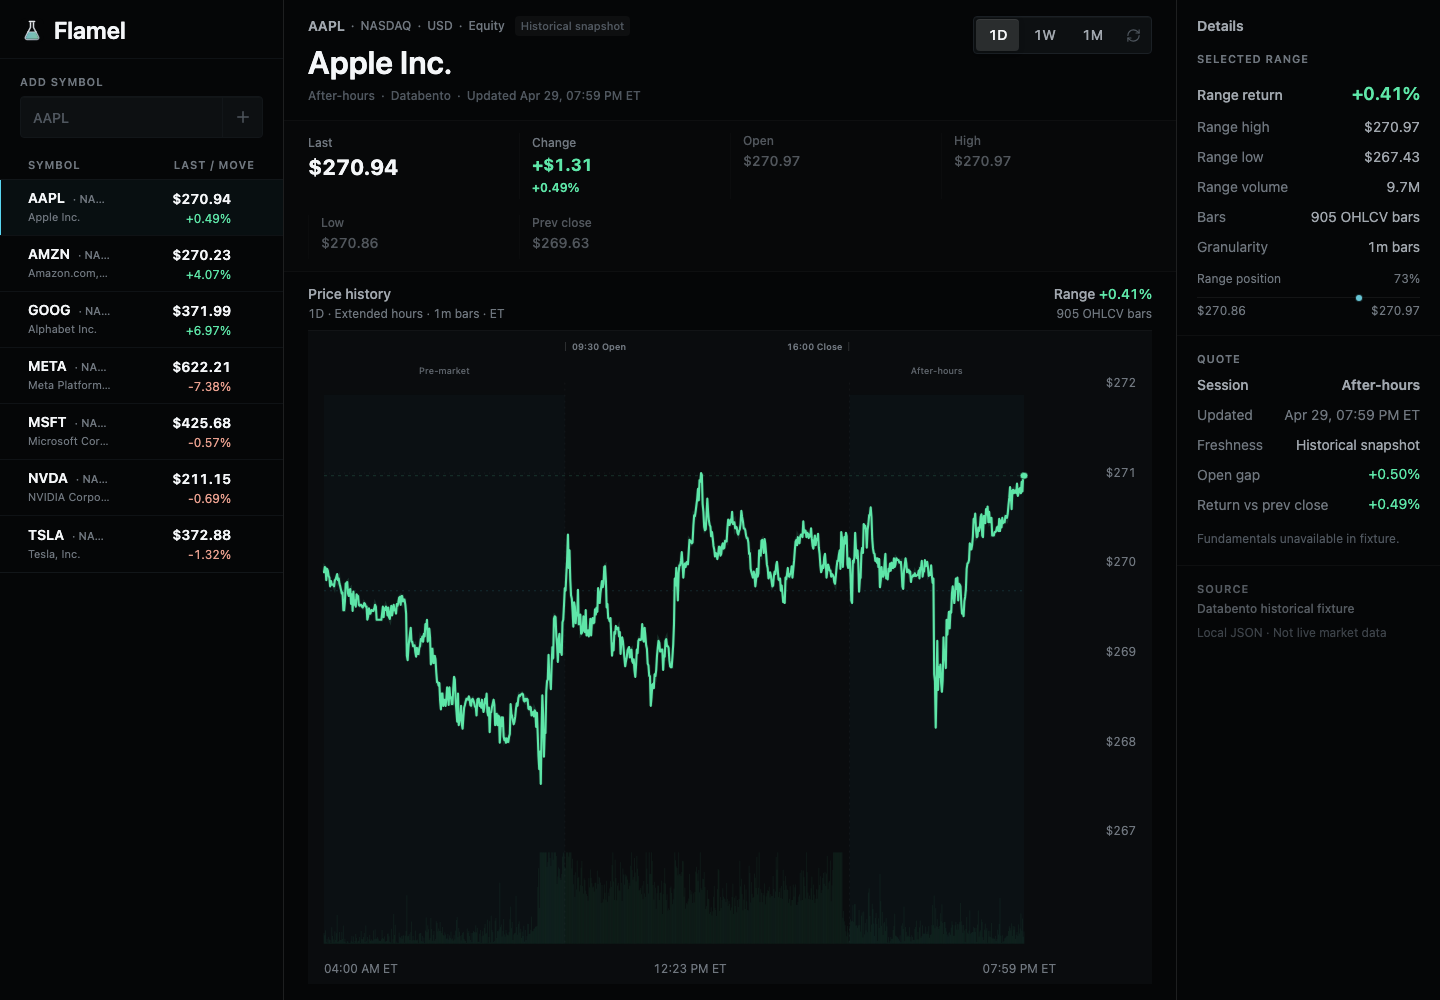
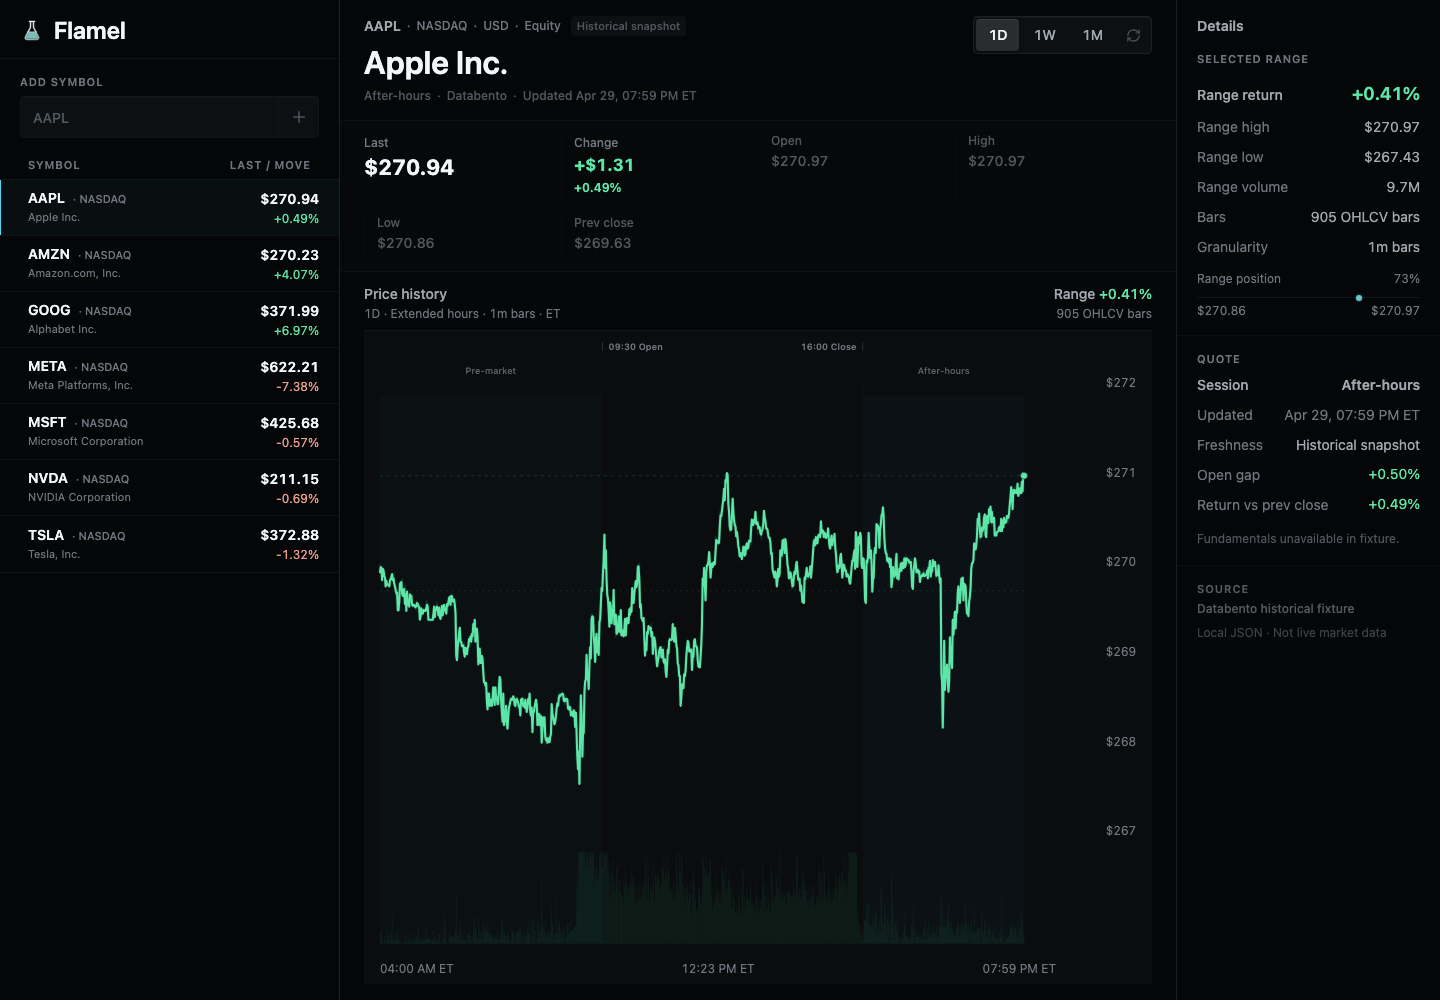
Show full watchlist labels in screenshot

diff --git a/apps/web/src/features/financial-data/workspace.tsx b/apps/web/src/features/financial-data/workspace.tsx
@@ -207,7 +207,7 @@ export function FinancialDataWorkspace() {
         class="h-dvh min-h-0 w-full overflow-x-hidden overflow-y-auto bg-[var(--surface-app)] text-[var(--text-primary)] xl:overflow-hidden"
         id="financial-data-content"
       >
-        <section class="grid min-h-full w-full min-w-0 gap-0 lg:grid-cols-[284px_minmax(0,1fr)] xl:h-full xl:min-h-0 xl:grid-cols-[284px_minmax(0,1fr)_264px] 2xl:grid-cols-[310px_minmax(0,1fr)_284px]">
+        <section class="grid min-h-full w-full min-w-0 gap-0 lg:grid-cols-[340px_minmax(0,1fr)] xl:h-full xl:min-h-0 xl:grid-cols-[340px_minmax(0,1fr)_264px] 2xl:grid-cols-[360px_minmax(0,1fr)_284px]">
           <aside
             aria-label="Watchlist"
             class="flex min-h-0 min-w-0 flex-col border-b border-white/10 p-4 lg:border-b-0 lg:border-r lg:border-white/10 lg:px-5 lg:py-4 xl:overflow-hidden"
@@ -249,7 +249,7 @@ export function FinancialDataWorkspace() {
                 {(item) => (
                   <div
                     data-selected={item.selected}
-                    class={`watchlist-row group grid h-14 w-full grid-cols-[minmax(0,1fr)_2.5rem] items-center text-sm ${
+                    class={`watchlist-row group h-14 w-full text-sm ${
                       item.selected ? "text-[var(--accent)]" : "text-[var(--text-secondary)]"
                     }`}
                   >
@@ -257,7 +257,7 @@ export function FinancialDataWorkspace() {
                       aria-label={`${item.symbol}, ${item.quote?.name ?? watchlistStatusLabel(item.status, item.source)}${item.quote ? `, ${formatMoney(item.quote.lastPrice, item.quote.currency)}, ${formatSignedPercent(item.quote.changePercent)}` : ""}`}
                       aria-current={item.selected ? "true" : undefined}
                       data-watchlist-symbol={item.symbol}
-                      class="grid h-full min-w-0 grid-cols-1 items-center gap-4 px-6 py-2 text-left focus-visible:outline focus-visible:outline-1 focus-visible:outline-offset-[-2px] focus-visible:outline-[var(--accent)] sm:grid-cols-[minmax(0,1fr)_minmax(104px,auto)] lg:pl-7 lg:pr-3"
+                      class="grid h-full w-full min-w-0 grid-cols-1 items-center gap-4 px-6 py-2 text-left focus-visible:outline focus-visible:outline-1 focus-visible:outline-offset-[-2px] focus-visible:outline-[var(--accent)] sm:grid-cols-[minmax(0,1fr)_minmax(104px,auto)] lg:pl-7 lg:pr-5"
                       tabIndex={item.selected ? 0 : -1}
                       type="button"
                       onClick={() => workspace.selectSymbol(item.symbol)}
@@ -297,7 +297,7 @@ export function FinancialDataWorkspace() {
                     </button>
                     <button
                       aria-label={`Remove ${item.symbol} from watchlist`}
-                      class="watchlist-remove-button mr-3 grid size-7 place-items-center text-[var(--text-faint)] transition hover:bg-[var(--negative-soft)] hover:text-[var(--negative)] focus-visible:bg-[var(--surface-elevated)] focus-visible:text-[var(--negative)] focus-visible:outline focus-visible:outline-1 focus-visible:outline-offset-[-2px] focus-visible:outline-[var(--accent)]"
+                      class="watchlist-remove-button absolute right-2 top-1/2 grid size-7 -translate-y-1/2 place-items-center text-[var(--text-faint)] transition hover:bg-[var(--negative-soft)] hover:text-[var(--negative)] focus-visible:bg-[var(--surface-elevated)] focus-visible:text-[var(--negative)] focus-visible:outline focus-visible:outline-1 focus-visible:outline-offset-[-2px] focus-visible:outline-[var(--accent)]"
                       title={`Remove ${item.symbol}`}
                       type="button"
                       onClick={() => workspace.removeSymbol(item.symbol)}